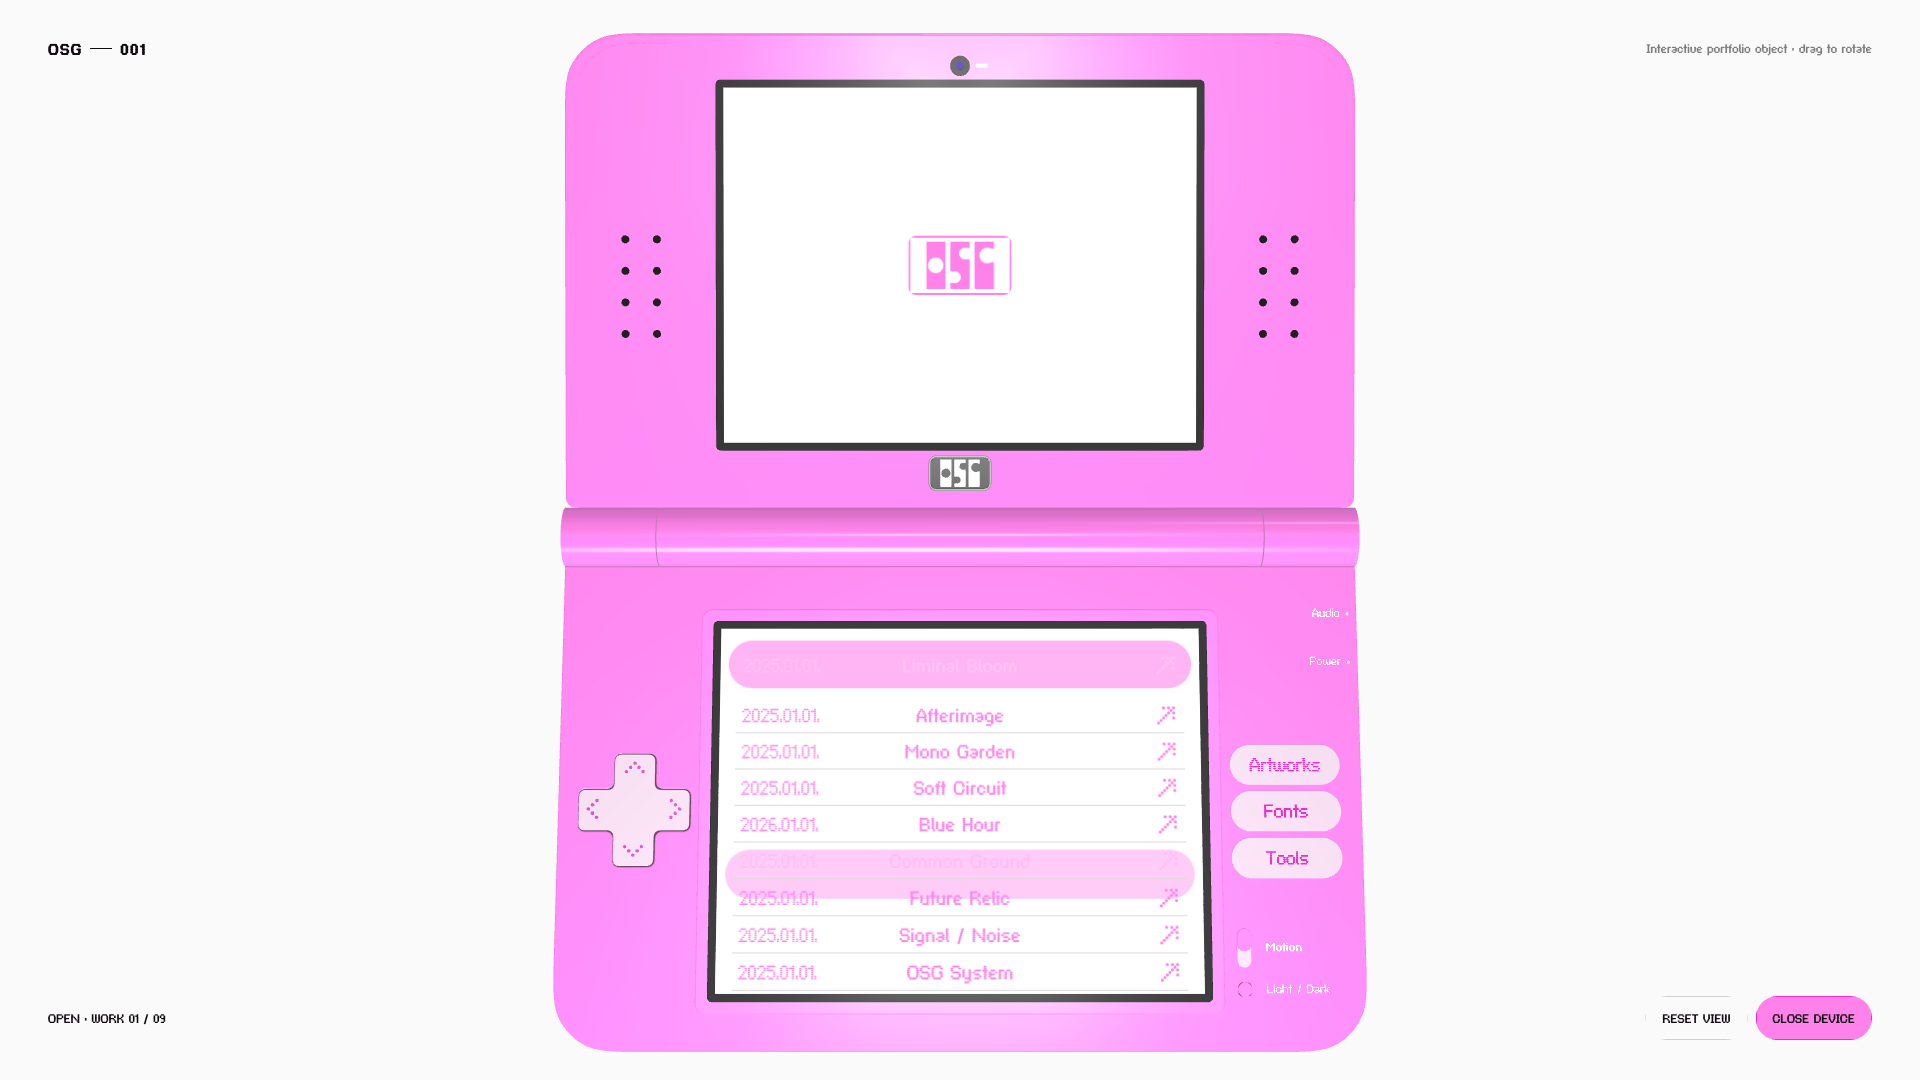
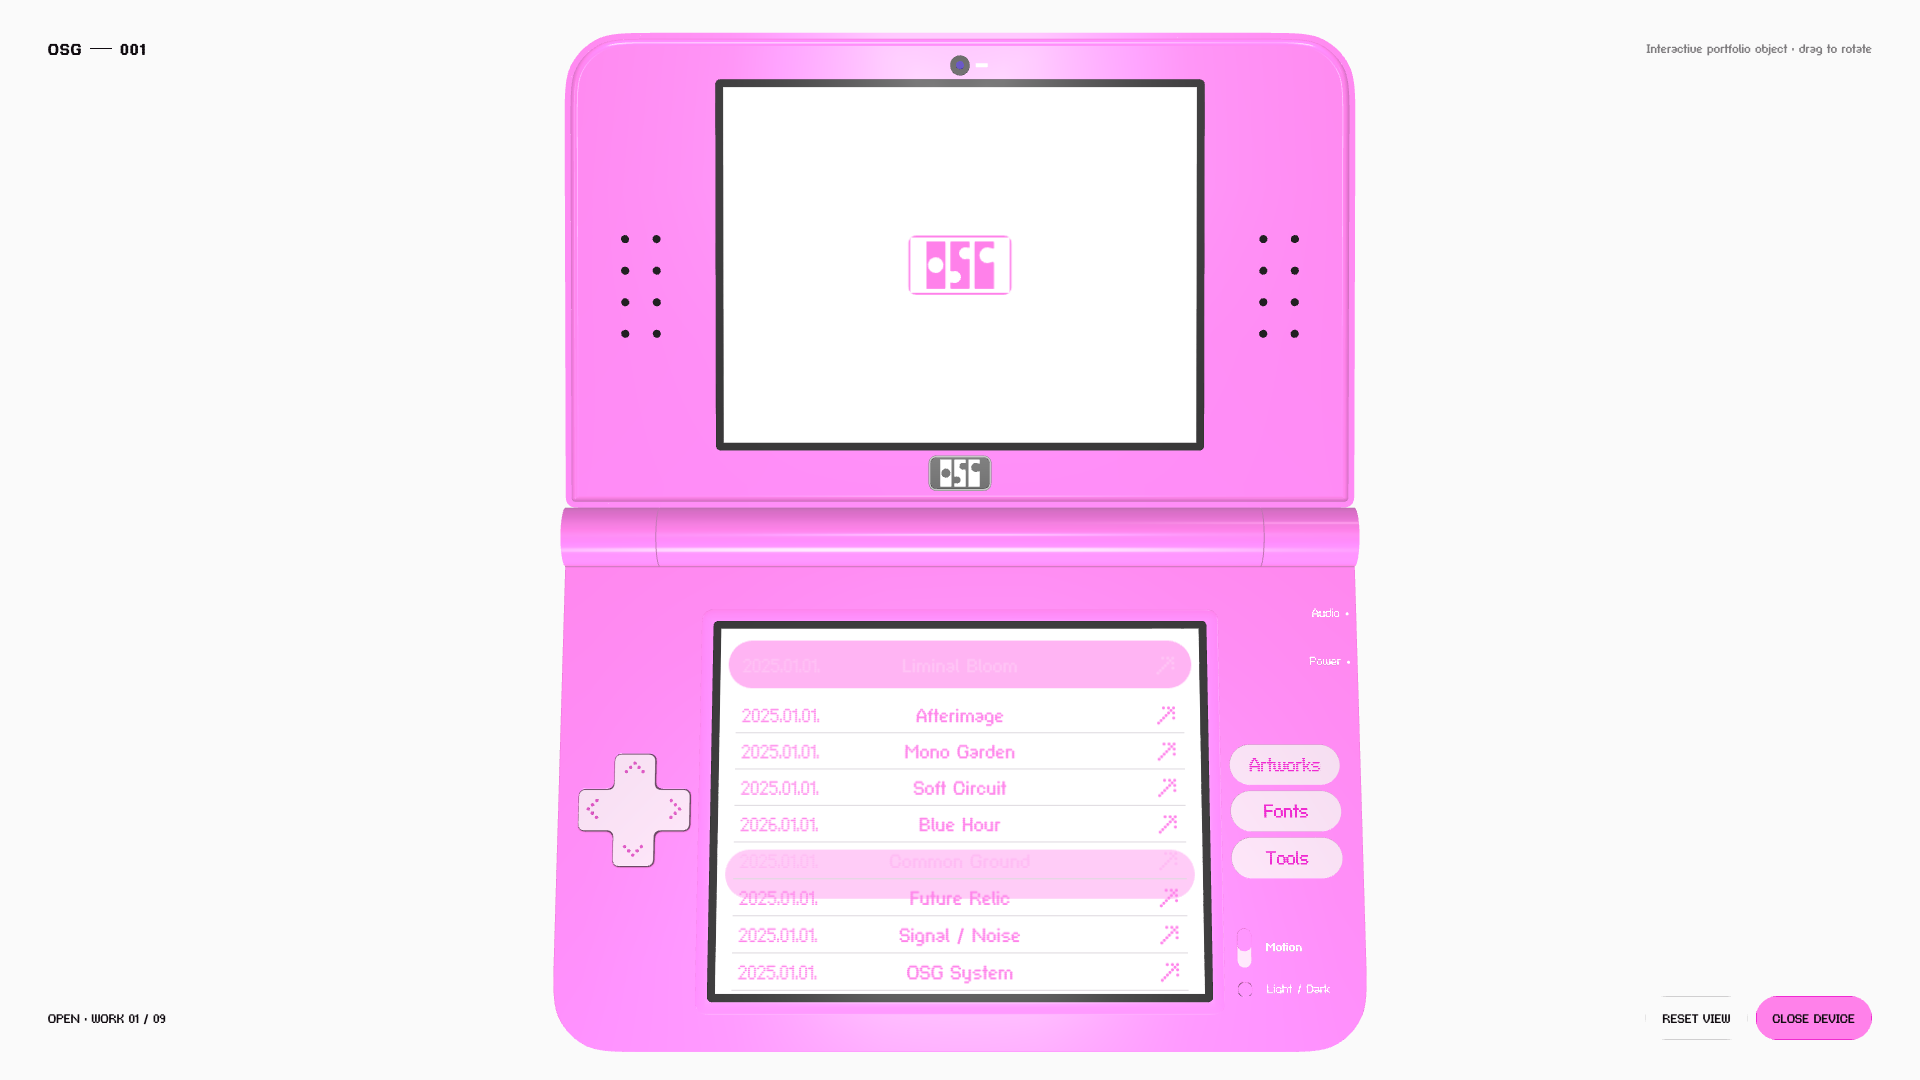
fix upper shell with carved fillet pocket

Changed region(s): [[0.3125, 0.4583, 0.5938, 0.4889], [0.4062, 0.9167, 0.5938, 0.9472], [0.4062, 0.0306, 0.5938, 0.0611]]

diff --git a/src/device.ts b/src/device.ts
@@ -1,5 +1,6 @@
 import * as THREE from "three";
-import { DEVICE, PHYSICAL, exteriorRadius, px } from "./config";
+import { Brush, Evaluator, SUBTRACTION } from "three-bvh-csg";
+import { DEVICE, FILLET_REFERENCE, PHYSICAL, UPPER_POCKET_FILLET_REFERENCE, exteriorRadius, px } from "./config";
 import { catalogueStepForDpad, dpadTiltForDirection, type DpadDirection } from "./controls";
 import {
   circleHole,
@@ -150,7 +151,7 @@ function addLowerDisplay(lower: THREE.Group): void {
     },
     thickness: px(3),
     material: shoulderMaterial,
-    bevel: px(1.2),
+    fillet: FILLET_REFERENCE,
   });
   shoulder.rotation.x = Math.PI / 2;
   shoulder.position.set(0, DEVICE.lowerSurfaceY + px(1.5), DEVICE.lowerScreenCenterZ);
@@ -436,45 +437,45 @@ function addCameraAndBadge(pivot: THREE.Group): { readonly outer: THREE.Group; r
 function createUpper(): UpperAssembly {
   const pivot = new THREE.Group();
   pivot.position.set(0, DEVICE.hingeAxisY, DEVICE.hingeZ);
-  const holes: THREE.Path[] = [roundedRectHole({
-    width: DEVICE.bezelWidth, height: DEVICE.bezelHeight, radius: DEVICE.upperBezelRadius,
-    y: DEVICE.screenCenterY - DEVICE.panelHeight / 2,
-  })];
-  PHYSICAL.speakerX.forEach((x) => PHYSICAL.speakerY.forEach((y) => {
-    holes.push(circleHole({ x, y: y - DEVICE.panelHeight / 2, radius: PHYSICAL.speakerRadius }));
-  }));
   const profile = {
     width: DEVICE.width, height: DEVICE.panelHeight,
     minYRadius: DEVICE.upperHingeRadius, maxYRadius: DEVICE.upperOuterRadius,
   } as const;
   const innerProfile = {
-    width: px(784), height: px(464),
+    width: DEVICE.width - DEVICE.upperInsetDepth * 2,
+    height: DEVICE.panelHeight - DEVICE.upperInsetDepth * 2,
     minYRadius: DEVICE.upperInsetHingeRadius, maxYRadius: DEVICE.upperInsetOuterRadius,
   } as const;
-  const body = extrudedMesh(panelShape({ ...profile, holes: [panelHole(innerProfile)] }), {
-    thickness: DEVICE.upperThickness, material: materials.shell, bevel: px(2.8),
+  const base = extrudedMesh(panelShape(profile), {
+    thickness: DEVICE.upperThickness, material: materials.shell,
   });
-  body.position.set(0, DEVICE.panelHeight / 2 + DEVICE.hingeRadius, DEVICE.upperBodyCenterZ);
-  pivot.add(body);
-  const insetBridge = extrudedMesh(panelShape({ ...profile, holes: [panelHole(innerProfile)] }), {
-    thickness: DEVICE.upperInsetDepth, material: materials.shell, bevel: px(1.2),
+  base.position.set(0, DEVICE.panelHeight / 2 + DEVICE.hingeRadius, DEVICE.upperBodyCenterZ);
+  base.updateMatrix();
+  const baseBrush = new Brush(base.geometry.clone(), materials.shell);
+  baseBrush.geometry.applyMatrix4(base.matrix);
+  base.geometry.dispose();
+
+  const pocketDepth = DEVICE.upperInsetDepth + UPPER_POCKET_FILLET_REFERENCE.depth + px(0.2);
+  const pocket = extrudedMesh(panelShape(innerProfile), {
+    thickness: pocketDepth,
+    material: materials.shell,
+    fillet: { ...UPPER_POCKET_FILLET_REFERENCE, bevelOffset: -UPPER_POCKET_FILLET_REFERENCE.radius },
   });
-  insetBridge.name = "upperInsetBevel";
-  insetBridge.position.set(
-    0,
-    DEVICE.panelHeight / 2 + DEVICE.hingeRadius,
-    DEVICE.upperInnerSurfaceZ / 2 - px(0.1),
-  );
-  pivot.add(insetBridge);
-  const innerSkin = extrudedMesh(panelShape({ ...innerProfile, holes }), {
-    thickness: px(3.2), material: materials.shell, bevel: px(0.6),
-  });
-  innerSkin.position.set(0, DEVICE.panelHeight / 2 + DEVICE.hingeRadius, DEVICE.upperInnerSurfaceZ - px(1.2));
-  pivot.add(innerSkin);
-  const backSkin = extrudedMesh(panelShape(profile), { thickness: px(3.2), material: materials.shell, bevel: px(0.6) });
-  backSkin.name = "upperBackSkin";
-  backSkin.position.set(0, DEVICE.panelHeight / 2 + DEVICE.hingeRadius, DEVICE.upperBackFaceZ + px(1.6));
-  pivot.add(backSkin);
+  pocket.position.set(0, DEVICE.panelHeight / 2 + DEVICE.hingeRadius, DEVICE.upperContactFaceZ);
+  pocket.updateMatrix();
+  const pocketBrush = new Brush(pocket.geometry.clone(), materials.shell);
+  pocketBrush.geometry.applyMatrix4(pocket.matrix);
+  pocket.geometry.dispose();
+
+  const evaluator = new Evaluator();
+  evaluator.useGroups = false;
+  const upperShell = evaluator.evaluate(baseBrush, pocketBrush, SUBTRACTION);
+  upperShell.name = "upperBackSkin";
+  upperShell.material = materials.shell;
+  upperShell.geometry.computeVertexNormals();
+  pivot.add(upperShell);
+  baseBrush.geometry.dispose();
+  pocketBrush.geometry.dispose();
   addUpperDisplay(pivot);
   PHYSICAL.speakerX.forEach((x) => PHYSICAL.speakerY.forEach((y) => {
     const aperture = cylinderMesh({ radius: PHYSICAL.speakerRadius, depth: px(1.6), material: materials.portVoid, segments: 24 });

diff --git a/src/geometry.ts b/src/geometry.ts
@@ -78,6 +78,13 @@ type ResolvedCorners = {
   readonly bottomLeft: CornerPathParams;
 };
 
+export type FilletSpec = {
+  readonly radius: number;
+  readonly depth?: number;
+  readonly segments?: number;
+  readonly bevelOffset?: number;
+};
+
 function resolveContinuousCorners(width: number, height: number, radii: CornerRadii, smoothing: number): ResolvedCorners {
   const normalized = distributeAndNormalize({
     topLeftCornerRadius: radii.topLeft,
@@ -345,19 +352,23 @@ export function extrudedMesh(shape: THREE.Shape, spec: {
   readonly thickness: number;
   readonly material: THREE.Material;
   readonly bevel?: number;
+  readonly fillet?: number | FilletSpec;
 }): THREE.Mesh {
-  const requestedBevel = spec.bevel ?? 0;
-  const bevel = Math.min(requestedBevel, Math.max(0, spec.thickness / 2 - 0.0001));
-  const coreDepth = spec.thickness - bevel * 2;
+  const fillet = typeof spec.fillet === "number" ? { radius: spec.fillet } : spec.fillet;
+  const legacyBevel = spec.bevel ?? 0;
+  const radius = fillet?.radius ?? legacyBevel;
+  const requestedDepth = fillet?.depth ?? legacyBevel;
+  const depth = Math.min(requestedDepth, Math.max(0, spec.thickness / 2 - 0.0001));
+  const coreDepth = spec.thickness - depth * 2;
   const geometry = new THREE.ExtrudeGeometry(shape, {
     depth: coreDepth,
     steps: 1,
     curveSegments: 24,
-    bevelEnabled: bevel > 0,
-    bevelSegments: bevel > 0 ? 4 : 1,
-    bevelSize: bevel,
-    bevelThickness: bevel,
-    bevelOffset: -bevel,
+    bevelEnabled: radius > 0 && depth > 0,
+    bevelSegments: radius > 0 && depth > 0 ? fillet?.segments ?? (fillet ? 8 : 4) : 1,
+    bevelSize: radius,
+    bevelThickness: depth,
+    bevelOffset: fillet?.bevelOffset ?? -radius,
   });
   geometry.translate(0, 0, -coreDepth / 2);
   geometry.computeVertexNormals();
@@ -403,12 +414,14 @@ export function flatRoundedMesh(spec: {
   readonly radius: number;
   readonly material: THREE.Material;
   readonly bevel?: number;
+  readonly fillet?: number | FilletSpec;
   readonly continuous?: boolean;
 }): THREE.Mesh {
   const mesh = extrudedMesh(roundedRectShape({ width: spec.width, height: spec.depth, radius: spec.radius }, spec.continuous ?? true), {
     thickness: spec.thickness,
     material: spec.material,
-    bevel: spec.bevel ?? 0,
+    ...(spec.bevel === undefined ? {} : { bevel: spec.bevel }),
+    ...(spec.fillet === undefined ? {} : { fillet: spec.fillet }),
   });
   mesh.rotation.x = Math.PI / 2;
   return mesh;
@@ -420,8 +433,14 @@ export function frameMesh(spec: {
   readonly thickness: number;
   readonly material: THREE.Material;
   readonly bevel?: number;
+  readonly fillet?: number | FilletSpec;
 }): THREE.Mesh {
   const shape = roundedRectShape(spec.outer);
   shape.holes.push(roundedRectHole(spec.inner));
-  return extrudedMesh(shape, { thickness: spec.thickness, material: spec.material, bevel: spec.bevel ?? 0 });
+  return extrudedMesh(shape, {
+    thickness: spec.thickness,
+    material: spec.material,
+    ...(spec.bevel === undefined ? {} : { bevel: spec.bevel }),
+    ...(spec.fillet === undefined ? {} : { fillet: spec.fillet }),
+  });
 }

diff --git a/tests/geometry.test.ts b/tests/geometry.test.ts
@@ -1,7 +1,7 @@
 import { describe, expect, test } from "bun:test";
 import { getPathParamsForCorner } from "@lisse/core";
 import * as THREE from "three";
-import { panelShape, roundedRectShape } from "../src/geometry";
+import { extrudedMesh, panelShape, roundedRectShape } from "../src/geometry";
 import { px } from "../src/config";
 
 describe("continuous enclosure geometry", () => {
@@ -37,5 +37,51 @@ describe("continuous enclosure geometry", () => {
       if (arc.aClockwise) sweep = Math.PI * 2 - sweep;
       expect(sweep).toBeLessThanOrEqual(Math.PI / 2);
     });
+  });
+
+  test("builds broad CSS-sized fillets with a smooth round profile", () => {
+    const mesh = extrudedMesh(roundedRectShape({ width: px(800), height: px(480), radius: px(60) }), {
+      thickness: px(36),
+      material: new THREE.MeshBasicMaterial(),
+      fillet: { radius: px(12), depth: px(8), segments: 12 },
+    });
+    const options = mesh.geometry.parameters.options as {
+      readonly bevelEnabled: boolean;
+      readonly bevelSegments: number;
+      readonly bevelSize: number;
+      readonly bevelThickness: number;
+    };
+
+    expect(options.bevelEnabled).toBe(true);
+    expect(options.bevelSegments).toBe(12);
+    expect(options.bevelSize).toBe(px(12));
+    expect(options.bevelThickness).toBe(px(8));
+  });
+
+  test("keeps rolled-back surfaces on the legacy four-segment bevel path", () => {
+    const mesh = extrudedMesh(roundedRectShape({ width: px(112), height: px(42), radius: px(21) }), {
+      thickness: px(1.2),
+      material: new THREE.MeshBasicMaterial(),
+      bevel: px(0.25),
+    });
+    const options = mesh.geometry.parameters.options as {
+      readonly bevelSegments: number;
+      readonly bevelSize: number;
+      readonly bevelThickness: number;
+    };
+
+    expect(options.bevelSegments).toBe(4);
+    expect(options.bevelSize).toBe(px(0.25));
+    expect(options.bevelThickness).toBe(px(0.25));
+  });
+
+  test("allows an inner fillet to terminate on its adjoining flat face", () => {
+    const mesh = extrudedMesh(roundedRectShape({ width: px(784), height: px(464), radius: px(58) }), {
+      thickness: px(8),
+      material: new THREE.MeshBasicMaterial(),
+      fillet: { radius: px(2), depth: px(0.6), segments: 6, bevelOffset: 0 },
+    });
+    const options = mesh.geometry.parameters.options as { readonly bevelOffset: number };
+    expect(options.bevelOffset).toBe(0);
   });
 });

diff --git a/src/config.ts b/src/config.ts
@@ -10,6 +10,18 @@ export function exteriorRadius(sourcePixels: number): number {
   return px(sourcePixels * EXTERIOR_CURVE_SCALE);
 }
 
+export const FILLET_REFERENCE = {
+  radius: px(12),
+  depth: px(8),
+  segments: 12,
+} as const;
+
+export const UPPER_POCKET_FILLET_REFERENCE = {
+  radius: px(6),
+  depth: px(6),
+  segments: 12,
+} as const;
+
 const panelCenterX = (left: number, width: number): number => px(left + width / 2 - 400);
 const upperCenterY = (top: number, height: number): number => px(480 - top - height / 2);
 const lowerCenterZ = (top: number, height: number): number => px(top + height / 2 - 240);
@@ -17,6 +29,8 @@ const lowerCenterZ = (top: number, height: number): number => px(top + height / 
 const upperContactFaceZ = 0;
 const upperThickness = px(36);
 const upperBackFaceZ = upperContactFaceZ - upperThickness;
+const upperOuterRadius = exteriorRadius(120);
+const upperHingeRadius = exteriorRadius(20);
 
 export const DEVICE = {
   width: px(800),
@@ -27,16 +41,16 @@ export const DEVICE = {
   upperContactFaceZ,
   upperBackFaceZ,
   upperBodyCenterZ: (upperContactFaceZ + upperBackFaceZ) / 2,
-  upperInsetDepth: px(8),
-  upperInnerSurfaceZ: -px(8),
+  upperInsetDepth: px(6),
+  upperInnerSurfaceZ: -px(6),
   upperInternalClearance: px(1.2),
   upperInternalMaxZ: upperContactFaceZ - px(1.2),
   lowerSurfaceY: px(18),
   cornerSmoothing: 0.6,
-  upperOuterRadius: exteriorRadius(120),
-  upperHingeRadius: exteriorRadius(20),
-  upperInsetOuterRadius: exteriorRadius(116),
-  upperInsetHingeRadius: exteriorRadius(16),
+  upperOuterRadius,
+  upperHingeRadius,
+  upperInsetOuterRadius: upperOuterRadius - px(6),
+  upperInsetHingeRadius: upperHingeRadius - px(6),
   lowerOuterRadius: exteriorRadius(120),
   lowerHingeRadius: 0,
   hingeEnvelope: px(60),

diff --git a/tests/config.test.ts b/tests/config.test.ts
@@ -1,5 +1,5 @@
 import { describe, expect, test } from "bun:test";
-import { DEVICE, FIGMA_PIXELS_PER_WORLD_UNIT, PHYSICAL, px } from "../src/config";
+import { DEVICE, FILLET_REFERENCE, FIGMA_PIXELS_PER_WORLD_UNIT, PHYSICAL, UPPER_POCKET_FILLET_REFERENCE, px } from "../src/config";
 
 describe("Figma geometry contract", () => {
   test("derives every primary enclosure dimension from the shared 20:1 scale", () => {
@@ -17,13 +17,25 @@ describe("Figma geometry contract", () => {
     expect(DEVICE.lowerThickness).toBe(3.15);
     expect(DEVICE.upperContactFaceZ).toBe(0);
     expect(DEVICE.upperBackFaceZ).toBe(-px(36));
-    expect(DEVICE.upperInnerSurfaceZ).toBe(-px(8));
+    expect(DEVICE.upperInnerSurfaceZ).toBe(-px(6));
     expect(DEVICE.upperOuterRadius).toBe(px(60));
     expect(DEVICE.upperHingeRadius).toBe(px(10));
-    expect(DEVICE.upperInsetOuterRadius).toBe(px(58));
-    expect(DEVICE.upperInsetHingeRadius).toBe(px(8));
+    expect(DEVICE.upperInsetOuterRadius).toBeCloseTo(px(54), 10);
+    expect(DEVICE.upperInsetHingeRadius).toBeCloseTo(px(4), 10);
     expect(DEVICE.lowerOuterRadius).toBe(px(60));
     expect(DEVICE.lowerHingeRadius).toBe(0);
+  });
+
+  test("keeps the enclosure fillet tied to the CSS highlight values", () => {
+    expect(FILLET_REFERENCE.radius).toBe(px(12));
+    expect(FILLET_REFERENCE.depth).toBe(px(8));
+    expect(FILLET_REFERENCE.segments).toBe(12);
+  });
+
+  test("keeps the upper pocket fillet inside the six-pixel inset", () => {
+    expect(UPPER_POCKET_FILLET_REFERENCE.radius).toBe(px(6));
+    expect(UPPER_POCKET_FILLET_REFERENCE.depth).toBe(px(6));
+    expect(UPPER_POCKET_FILLET_REFERENCE.segments).toBe(12);
   });
 
   test("preserves exact hinge and control source envelopes", () => {

diff --git a/DESIGN.md b/DESIGN.md
@@ -31,9 +31,9 @@ Primary and sole display stack: bundled `OSG Capsules`. Light is mapped to weigh
 
 ## 4. Geometry and spacing
 
-Every physical X/Y dimension derives from one equation: `world units = Figma pixels / 20`. No component may use an independent visual scale. This session's latest all-layer CSS supersedes every earlier radius and position override. The source panels are 800 × 480px (40 × 24 world), both bezels are 496 × 376px, and both active displays are 480 × 360px with square corners. The lower thickness remains exactly `1.8 × 1.75 = 3.15` world. The upper thickness is 36px (1.8 world), with a flush contact plane at 0px, an 8px recessed inner surface, and a -36px outer back. Its 784 × 464px inner face is inset 8px; a real 8px beveled bridge joins the outer rim to that inner face so angled views cannot expose the stage through a floating skin. Default hinge opening is 170 degrees and closed clearance is 0 degrees.
+Every physical X/Y dimension derives from one equation: `world units = Figma pixels / 20`. No component may use an independent visual scale. This session's latest all-layer CSS supersedes every earlier radius and position override. The source panels are 800 × 480px (40 × 24 world), both bezels are 496 × 376px, and both active displays are 480 × 360px with square corners. The lower thickness remains exactly `1.8 × 1.75 = 3.15` world. The upper thickness is 36px (1.8 world), with a flush contact plane at 0px, a 6px recessed inner surface, and a -36px outer back. Its 788 × 468px inner pocket is cut directly from the one-piece upper shell by CSG; the pocket floor, 6px filleted shoulder, and vertical wall are one closed solid rather than assembled skins. The pocket contains the camera, badge, and display stack without overlapping the wall. The upper screen and bezel retain their original square stack. Default hinge opening is 170 degrees and closed clearance is 0 degrees.
 
-Latest shell corner contract: UI radii remain untouched, while every physical 3D corner radius is modeled at exactly 50% of its latest CSS value. The upper 800 × 480px panel therefore uses 60/60/10/10px model radii from CSS 120/120/20/20px; the lower panel uses 60/60/0/0px before its source vertical flip; and the upper inset uses 58/58/8/8px from CSS 116/116/16/16px. These remain Lisse continuous corners at smoothing `0.6`, not ordinary circular arcs. The D-pad is the explicit exception and retains its supplied 8/7px radii so its directional cap remains visually faithful.
+Latest shell corner contract: UI radii remain untouched, while every physical 3D corner radius is modeled at exactly 50% of its latest CSS value. The upper 800 × 480px panel therefore uses 60/60/10/10px model radii from CSS 120/120/20/20px; the lower panel uses 60/60/0/0px before its source vertical flip; and the upper inset uses the adjacent 54/54/4/4px radii produced by the 6px inset. These remain Lisse continuous corners at smoothing `0.6`, not ordinary circular arcs. The D-pad is the explicit exception and retains its supplied 8/7px radii so its directional cap remains visually faithful.
 
 Exact source geometry: side hinge envelopes are 95 × 60px, the center cover is 608 × 60px, and the visible dark core/web are intentionally absent; the center cover is tangent to and physically continuous with the upper panel rather than a detached rod. Upper speakers are 8px apertures at X 56/88 and 704/736, Y 203.43/235.43/267.43/299.43. Both display bezels are 496 × 376px with the same 10px CSS corner radius. Right buttons are 112 × 42px outer cutouts using a 21px model radius from CSS 42px, with 110 × 40px caps using 20px from CSS 40px, at X 668 and latest CSS Y 179/225/271 within the lower body. The toggle is a 16 × 40px cutout using 16px from CSS 32px with a 14 × 22px handle using 7px from CSS 14px; Light/Dark is a 16px cutout using 6px from CSS 12px with a 14px handle using 7.5px from CSS 15px. The D-pad is a 112px source cutout with a 110px cap and source-directed five-dot arrows; its modeled corner radii retain the explicit 8/7px source exception.
 
@@ -69,7 +69,7 @@ Micro presses translate only along the control's local surface normal and return
 
 ## 7. Depth and lighting
 
-Depth comes from articulated geometry, thicker lower housing, the 8px concave upper inner surround with a continuous beveled bridge, the raised lower-display bevel derived from the source 12px blur/8px spread highlight, deeper button travel inside actual dark-purple/light-control shell cutouts, recessed black speaker apertures, flush black side ports, microscopic ABS embossing, and physically based reflections. The 36px lid and its contact rim fully contain every inner component so the closed state has no coplanar intersection or depth flicker. One broad viewing-direction key plus restrained fills reveal the glossy shell, chrome badge, and lens. The product casts no ground/contact shadow and the stage remains the supplied flat `#FAFAFA`.
+Depth comes from articulated geometry, thicker lower housing, the one-piece upper shell's 6px recessed CSG pocket with a smooth filleted shoulder and closed vertical wall, the raised lower-display shoulder derived from the source 12px blur/8px spread highlight, deeper button travel inside actual dark-purple/light-control shell cutouts, recessed black speaker apertures, flush black side ports, microscopic ABS embossing, and physically based reflections. Because the upper pocket is carved from the shell instead of assembled from overlapping skins, its floor, fillet, wall, and enclosure remain closed while tilting. One broad viewing-direction key plus restrained fills reveal the glossy shell, chrome badge, and lens. The product casts no ground/contact shadow and the stage remains the supplied flat `#FAFAFA`.
 
 ## 8. Accessibility constraints and accepted debt
 

diff --git a/docs/qa/README.md b/docs/qa/README.md
@@ -8,6 +8,6 @@ These true-PNG captures are the durable 1920 × 1080 verification set for the so
 - `osg-final-closed-1920.png`: settled closed state at the source 800 × 540 envelope.
 - `osg-final-hinge-mid-1920.png`: hinge in transit with CSS3D screen content hidden to prevent bleed/intersection.
 
-The upper/lower display bezels share the same 10px CSS radius, and the upper inset is a real 8px continuous bevel bridge rather than a background-visible gap. Closed-state stability was checked across four captures 100ms apart. Their decoded RGB pixels were identical, confirming that the thicker concave lid contains the internal structures without visible depth flicker.
+The lower display keeps its original black bezel. The upper shell is one CSG-carved solid: a 6px inset pocket leaves a flat shell-colored floor, a smooth 6px filleted shoulder, and a vertical wall in the same closed mesh. The upper screen/bezel, camera, and badge remain inside that pocket. Closed-state stability and incremental tilt must be checked across fresh captures; there are no separate upper face/rim/wall skins for an endpoint gap or depth flicker to form.
 
 The browser scenarios, exact type/geometry contracts, build results, limitations, and all user-mandated fidelity notes are recorded in `.debug-journal.md` and `.codex/session-logs/2026-07-17T23-06-22+09-00-osg-folding-portfolio.json`.
